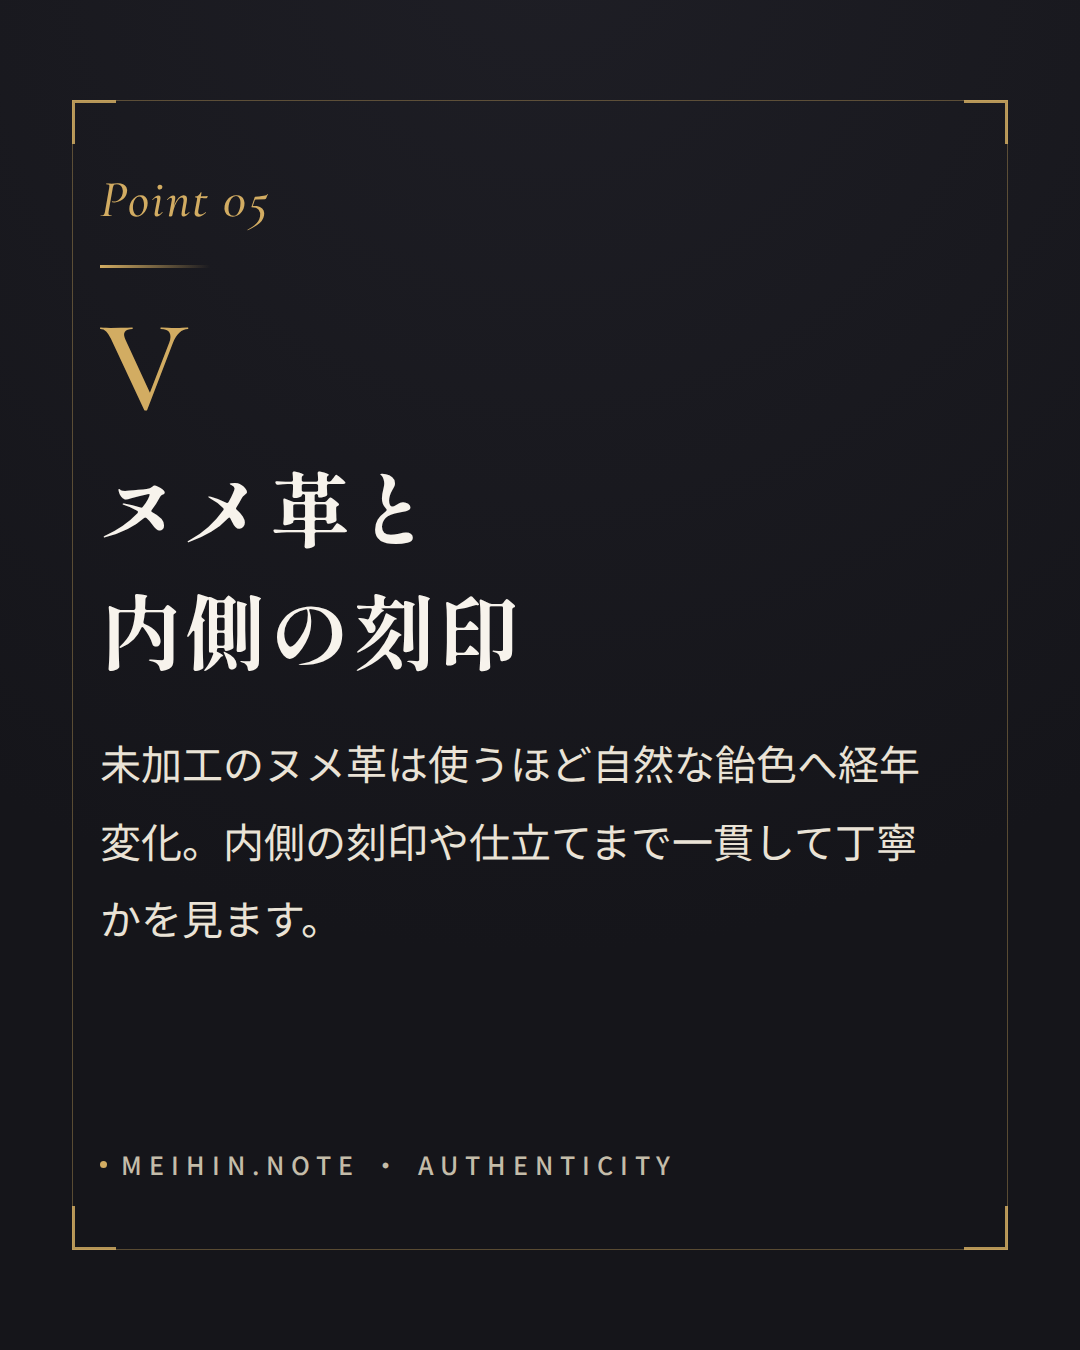
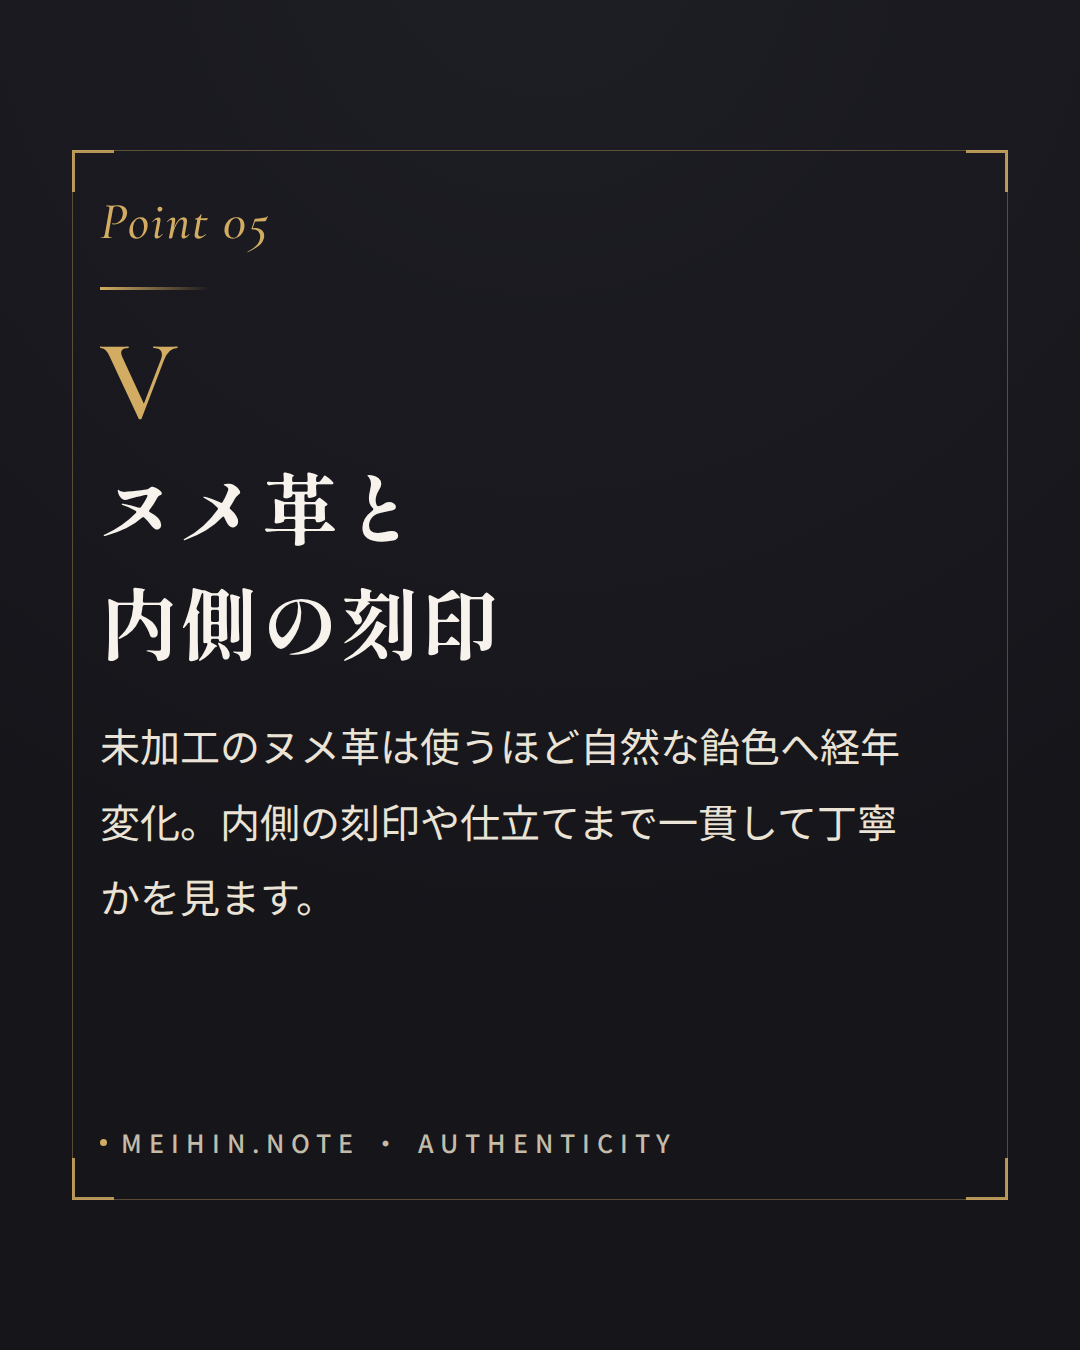
캐러셀 상하 여백 확대(≈14%)+스와이프 표시 위치 상향 (001)
- 상하 안전여백 190px, 프레임 인셋 150px
- 스와이프 표시 bottom 270px로 상향(하단 UI 겹침 방지)
- 폰트 크기 미세조정으로 여백 확보. 확인 후 002~010 일괄 반영

Claude-Session: https://claude.ai/code/session_01EojnZ719pe8skHKV6dNbgC

diff --git a/tools/slides.js b/tools/slides.js
@@ -17,18 +17,19 @@ const CSS = `
 *{margin:0;box-sizing:border-box}
 body{background:#000;font-family:'NotoJP',sans-serif}
 /* 안전영역: 위아래 크롭 대비 — 콘텐츠는 padding 안, 프레임은 상하 100px 인셋 */
-.slide{position:relative;width:1080px;height:1350px;overflow:hidden;padding:168px 100px;display:flex;flex-direction:column;
+/* 안전영역: 상하 여백 크게(≈14%) — 콘텐츠·프레임 모두 안쪽으로 */
+.slide{position:relative;width:1080px;height:1350px;overflow:hidden;padding:190px 100px;display:flex;flex-direction:column;
   background:radial-gradient(130% 105% at 50% -5%,var(--panel2),var(--panel) 72%);color:var(--ivory)}
-.slide::before{content:"";position:absolute;inset:100px 72px;border:1.5px solid rgba(210,172,98,.36);pointer-events:none}
-.corner{position:absolute;width:44px;height:44px;border:3px solid var(--gold);opacity:.85}
-.c1{top:100px;left:72px;border-right:0;border-bottom:0}.c2{top:100px;right:72px;border-left:0;border-bottom:0}
-.c3{bottom:100px;left:72px;border-right:0;border-top:0}.c4{bottom:100px;right:72px;border-left:0;border-top:0}
+.slide::before{content:"";position:absolute;inset:150px 72px;border:1.5px solid rgba(210,172,98,.36);pointer-events:none}
+.corner{position:absolute;width:42px;height:42px;border:3px solid var(--gold);opacity:.85}
+.c1{top:150px;left:72px;border-right:0;border-bottom:0}.c2{top:150px;right:72px;border-left:0;border-bottom:0}
+.c3{bottom:150px;left:72px;border-right:0;border-top:0}.c4{bottom:150px;right:72px;border-left:0;border-top:0}
 .eyebrow{font-family:'Cormo',serif;font-style:italic;font-size:52px;color:var(--gold);letter-spacing:.04em}
 .rule{width:110px;height:3px;background:linear-gradient(90deg,var(--gold),transparent);margin:34px 0}
 .rule.center{margin-left:auto;margin-right:auto}
-.num{font-family:'Cormo',serif;font-weight:600;font-size:132px;color:var(--gold);line-height:1}
-.stitle{font-family:'MinchoB',serif;font-weight:800;font-size:82px;line-height:1.5;letter-spacing:.03em;color:var(--ivory);margin:.12em 0}
-.sbody{font-family:'NotoJP',sans-serif;font-weight:400;font-size:41px;color:var(--body);line-height:1.9;margin-top:24px;max-width:820px}
+.num{font-family:'Cormo',serif;font-weight:600;font-size:116px;color:var(--gold);line-height:1}
+.stitle{font-family:'MinchoB',serif;font-weight:800;font-size:78px;line-height:1.48;letter-spacing:.03em;color:var(--ivory);margin:.1em 0}
+.sbody{font-family:'NotoJP',sans-serif;font-weight:400;font-size:40px;color:var(--body);line-height:1.88;margin-top:22px;max-width:820px}
 .spacer{flex:1 1 auto}
 .mark{display:flex;align-items:center;gap:14px;color:var(--muted);font-size:25px;letter-spacing:.28em;text-transform:uppercase;font-weight:500}
 .mark .dot{width:7px;height:7px;background:var(--gold);border-radius:50%}
@@ -42,8 +43,8 @@ body{background:#000;font-family:'NotoJP',sans-serif}
 .cta{align-items:center;justify-content:center;text-align:center}
 .cta .stitle{font-size:78px}
 /* 표지 스와이프 안내 */
-.swipe{position:absolute;left:0;right:0;bottom:150px;text-align:center}
-.swipe span{display:inline-flex;align-items:center;gap:22px;border:1.5px solid var(--goldsoft);border-radius:999px;padding:19px 42px;color:var(--gold);font-family:'NotoJP',sans-serif;font-weight:500;font-size:35px;letter-spacing:.14em}
+.swipe{position:absolute;left:0;right:0;bottom:270px;text-align:center}
+.swipe span{display:inline-flex;align-items:center;gap:20px;border:1.5px solid var(--goldsoft);border-radius:999px;padding:18px 40px;color:var(--gold);font-family:'NotoJP',sans-serif;font-weight:500;font-size:33px;letter-spacing:.14em}
 .swipe .arw{font-family:'NotoJP',sans-serif;font-size:40px;line-height:1}
 .handle{font-family:'Cormo',serif;font-size:80px;color:var(--gold);margin-top:20px}
 .save{margin-top:40px;border:2px solid var(--gold);color:var(--ivory);font-size:30px;letter-spacing:.24em;padding:22px 40px}
